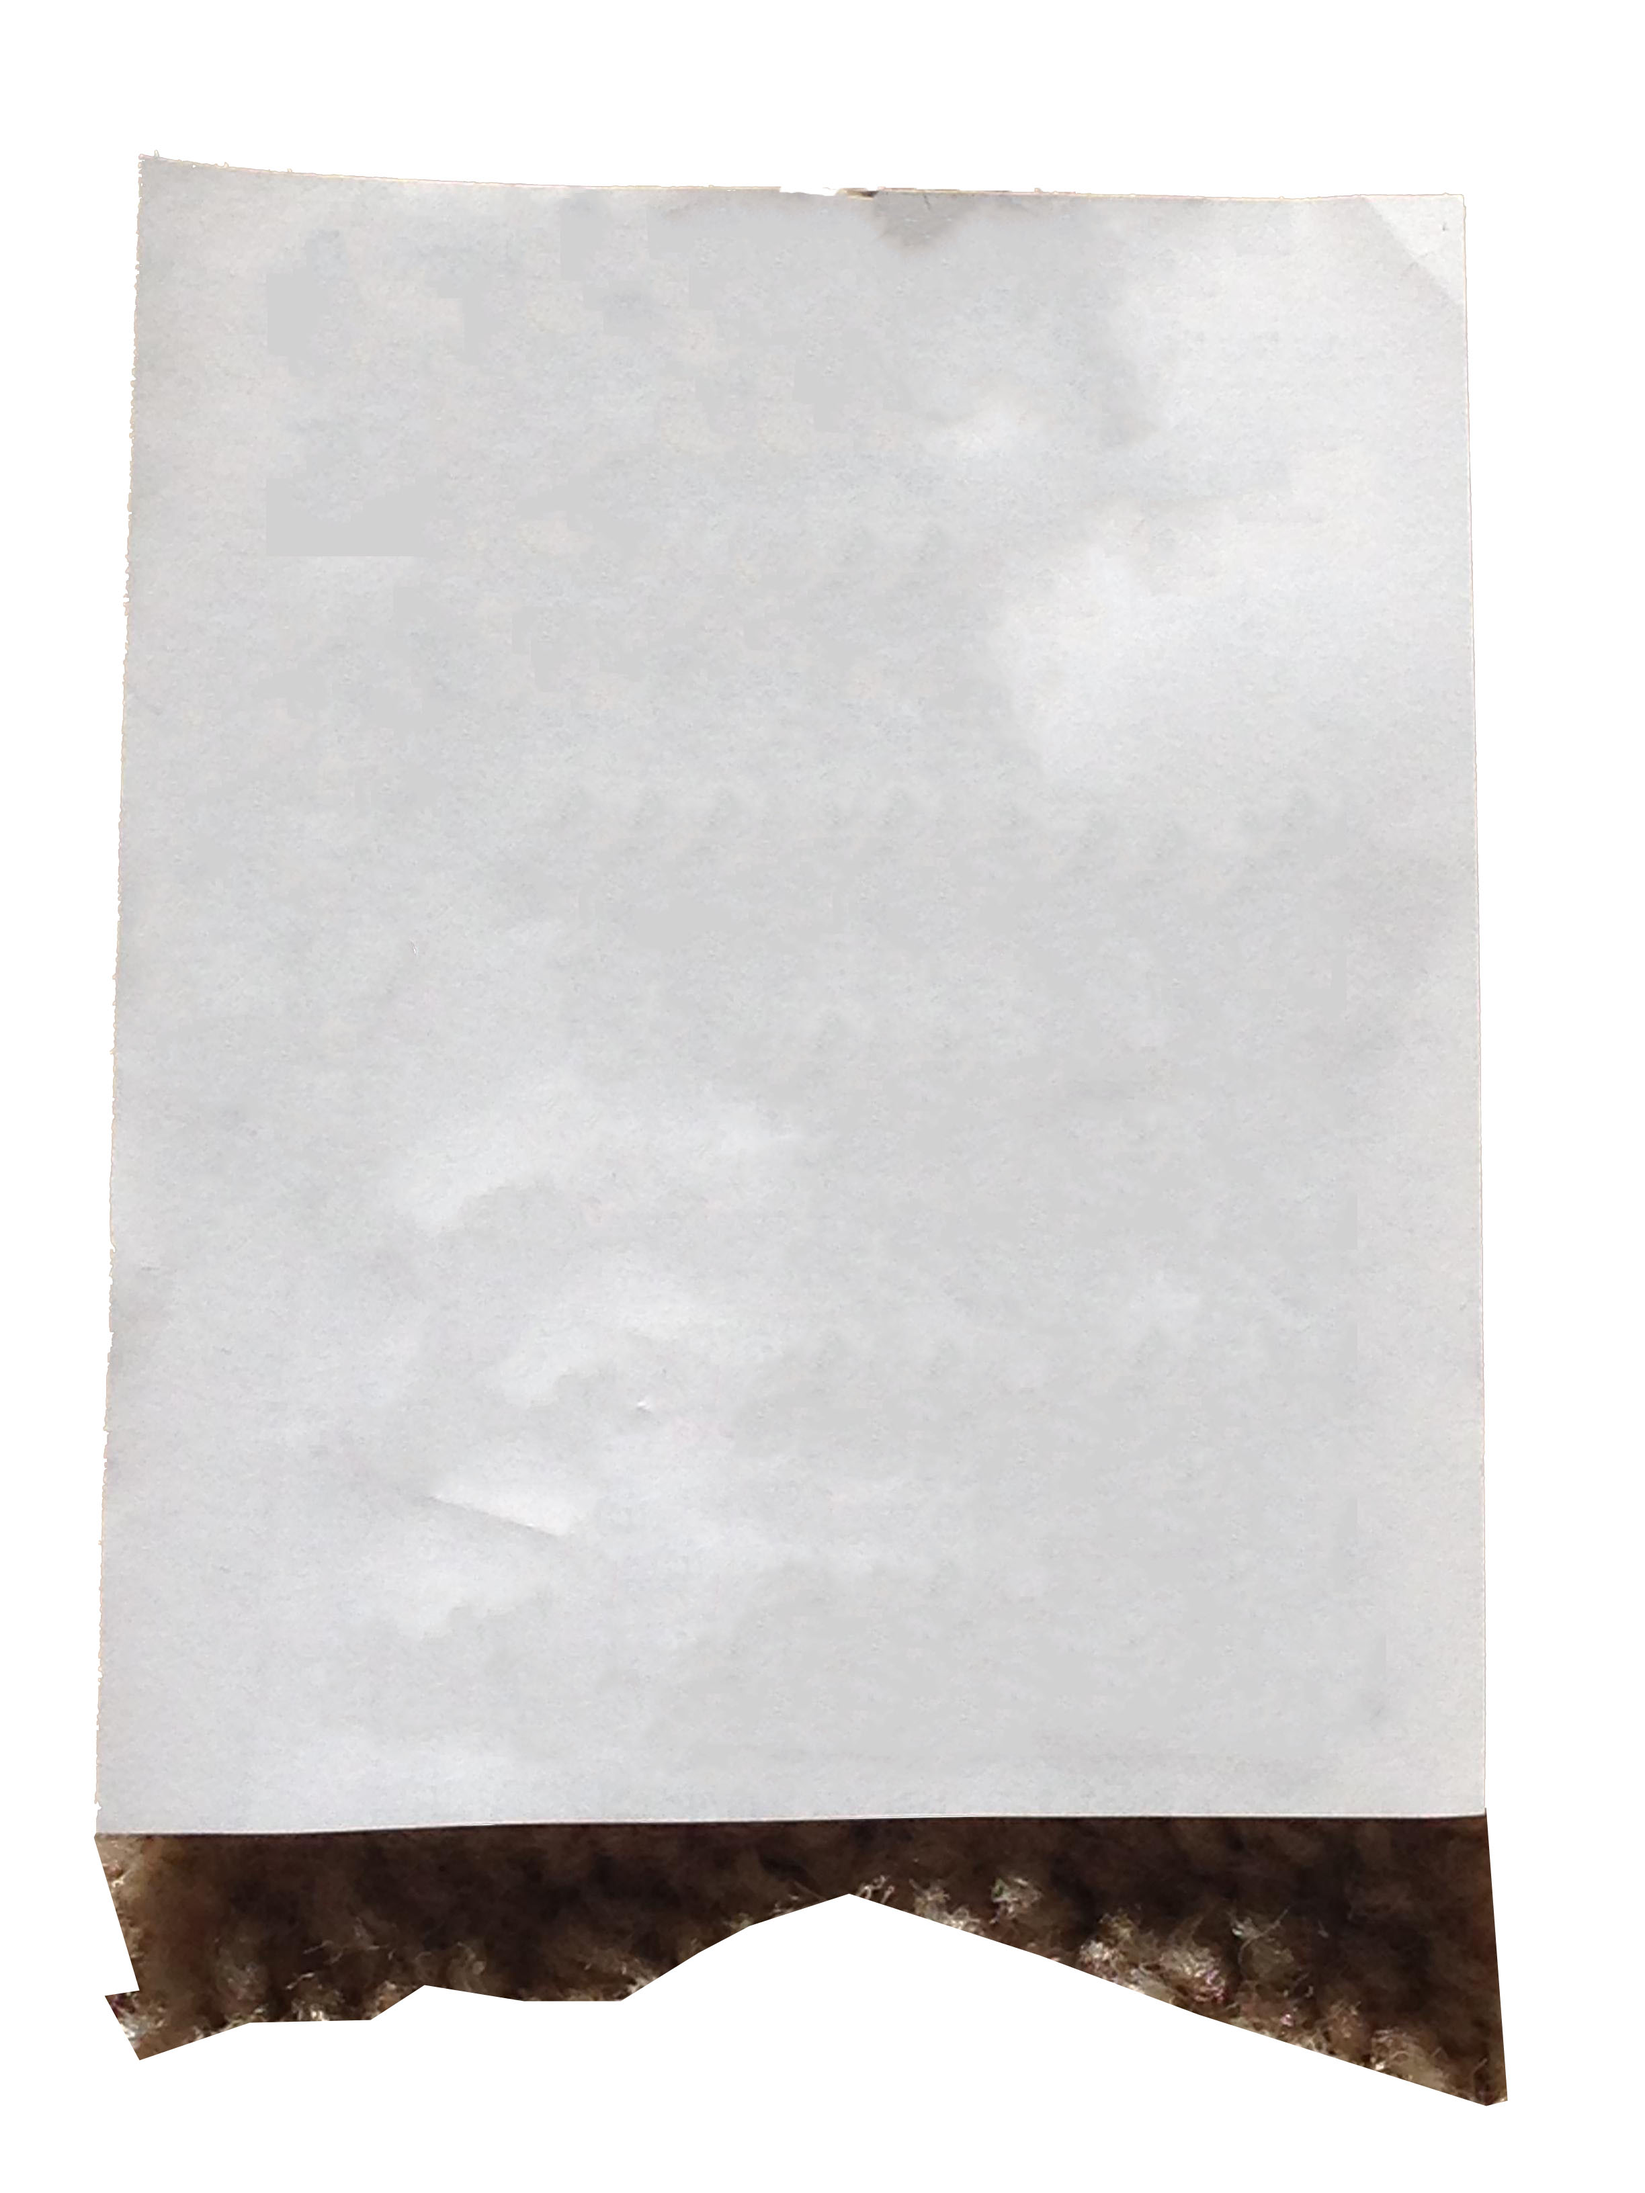
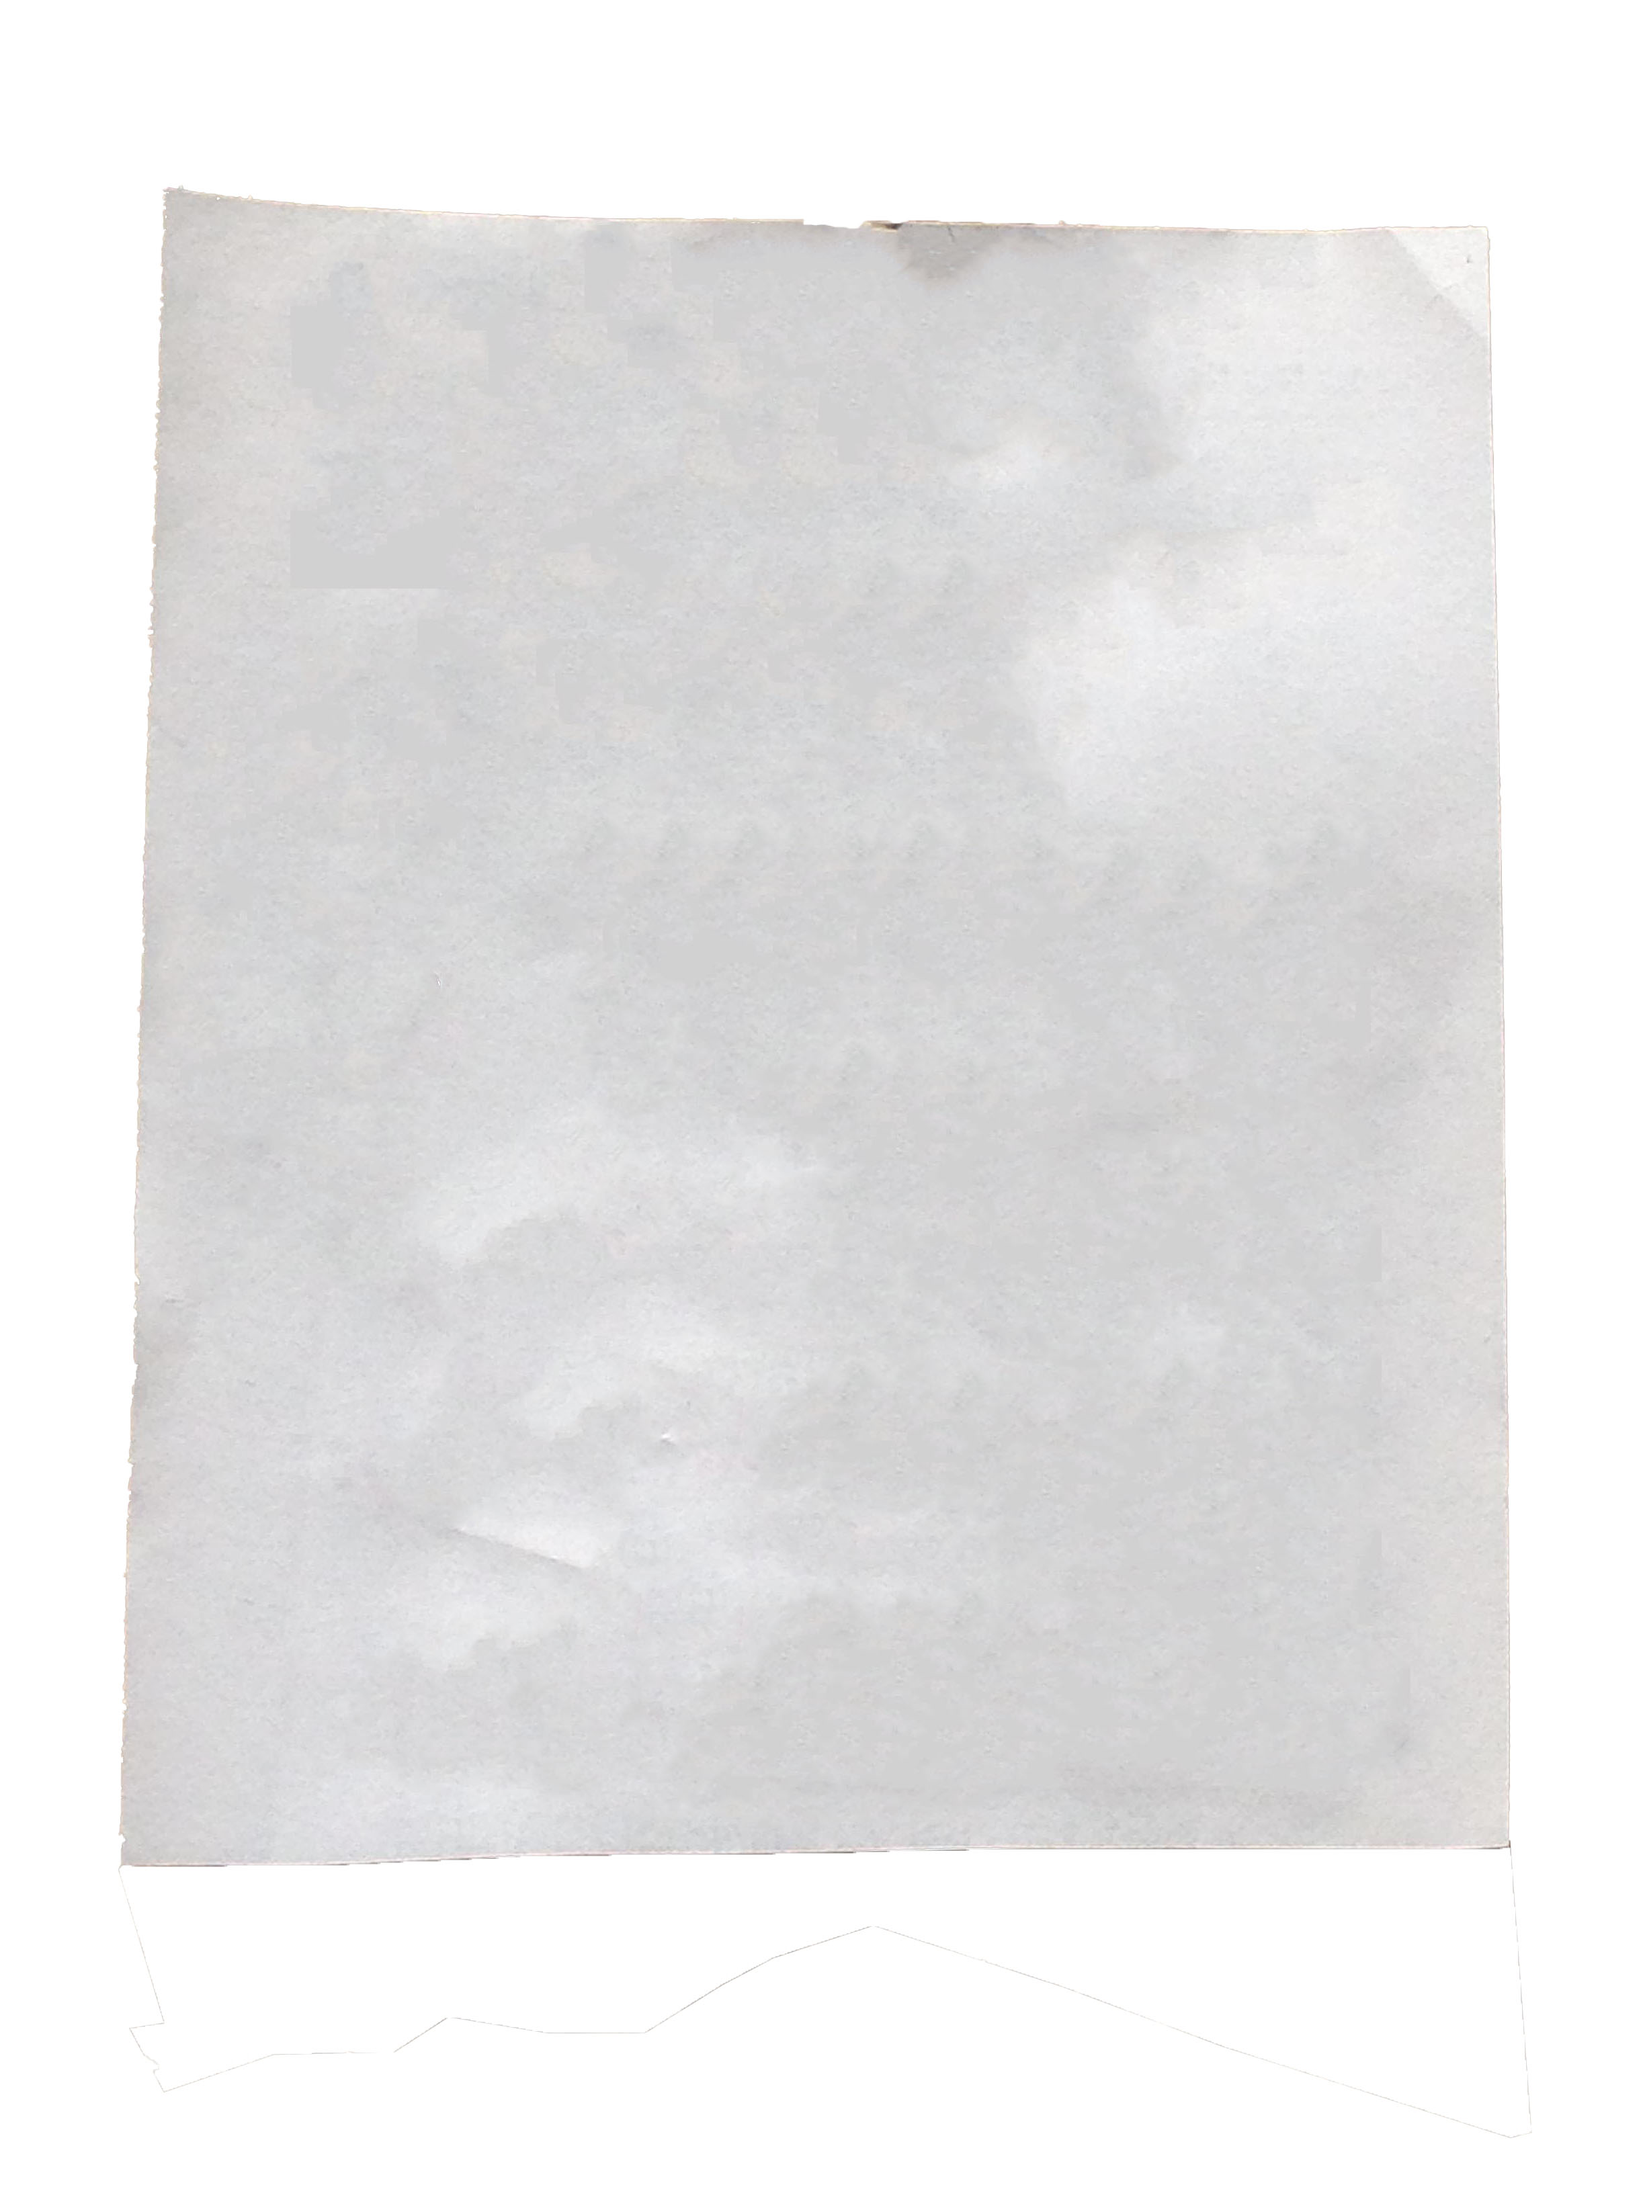
added background dynamically

Changed region(s): [[0.031, 0.0625, 0.9314, 0.9688]]

diff --git a/index.html b/index.html
@@ -16,7 +16,7 @@
         }
 
         .receptBg {
-            background: url(image/bg.webp);
+            background: url(8.jpg);
             background-repeat: no-repeat;
             background-position: center center;
             background-size: cover;
@@ -24,10 +24,10 @@
 
         .recept {
             background: url('image/receptBG.png');
-            /* box-shadow: 2px 27px 34px 0px black; */
-            /* background-position: center center; */
+            box-shadow: 2px 17px 89px 0px black;
+            background-position: center center;
             background-repeat: no-repeat;
-            background-size: cover;
+            /* background-size: cover; */
 
         }
     </style>
@@ -66,14 +66,28 @@
                             <input
                                 class="flex items-center h-12 px-4 w-64 bg-gray-200 mt-2 rounded focus:outline-none focus:ring-2 text-[#888181]"
                                 type="time" min="09:00" max="18:00" id="time" name="appt">
+
+                                <label class="font-semibold text-lg mt-3" for="appt">Select Background</label>
+                                <!-- <select name="" id="selectBg" class="flex items-center h-12 px-4 w-64 bg-gray-200 mt-2 rounded focus:outline-none focus:ring-2 text-[#888181]">
+                                    <option value="1">1</option>
+                                    <option value="2">2</option>
+                                    <option value="3">3</option>
+                                    <option value="4">4</option>
+                                    <option value="5">5</option>
+                                    <option value="6">6</option>
+                                    <option value="7">7</option>
+                                </select> -->
+                                <button 
+                                class="flex items-center justify-center h-12 px-6 w-64 bg-red-400 mt-8 rounded font-semibold text-sm text-blue-100 hover:bg-blue-700"
+                                id="changeBackground">Change Background</button>
                             <button
                                 class="flex items-center justify-center h-12 px-6 w-64 bg-blue-600 mt-8 rounded font-semibold text-sm text-blue-100 hover:bg-blue-700"
                                 id="submit">Update</button>
                         </div>
                     </div>
                 </div>
-                <div class="right p-32 flex justify-center receptBg">
-                    <section class="py-10 px-6 h-[700px] recept">
+                <div class="right p-32 flex justify-center receptBg h-full" id="receptBackground">
+                    <section class="py-10 px-6 recept w-full h-full">
                         <div>
                             <div class="flex justify-center">
                                 <img src="image/logo.png" alt="">
@@ -177,6 +191,9 @@
             const subtotal = Number(firstPrize) + Number(secondPrize) + Number(thirdPrize);
             const tax = (subtotal * 5) / 100;
             const total = subtotal + tax;
+            const selectBG = document.getElementById('selectBg');
+            const bgChange = document.getElementById('receptBackground');
+
             document.getElementById("random1").innerHTML = Math.floor(Math.random() * 999999999);
             document.getElementById("random2").innerHTML = Math.floor(Math.random() * 999999999);
             document.getElementById("random3").innerHTML = Math.floor(Math.random() * 999999999);
@@ -201,7 +218,35 @@
             document.getElementById("taxChange").innerText = tax;
             document.getElementById("totalChange").innerText = total;
             document.getElementById("devitChange").innerText = total;
+
+          
         });
+
+        function changeBackground() {
+            // Select the body element
+            const bgChange = document.getElementById('receptBackground');
+
+            // Array of image URLs
+            var imageUrls = [
+                '1.jpg',
+                '2.jpg',
+                '3.jpg',
+                '4.jpg',
+                '5.jpg',
+                '6.jpg',
+                '7.jpg',
+                '8.jpg',
+            ];
+
+            // Generate a random index
+            var randomIndex = Math.floor(Math.random() * imageUrls.length);
+
+            // Set the background image
+            bgChange.style.backgroundImage = 'url(' + imageUrls[randomIndex] + ')';
+        }
+
+        // Event listener for the button click
+        document.getElementById('changeBackground').addEventListener('click', changeBackground);
     </script>
 </body>
 
